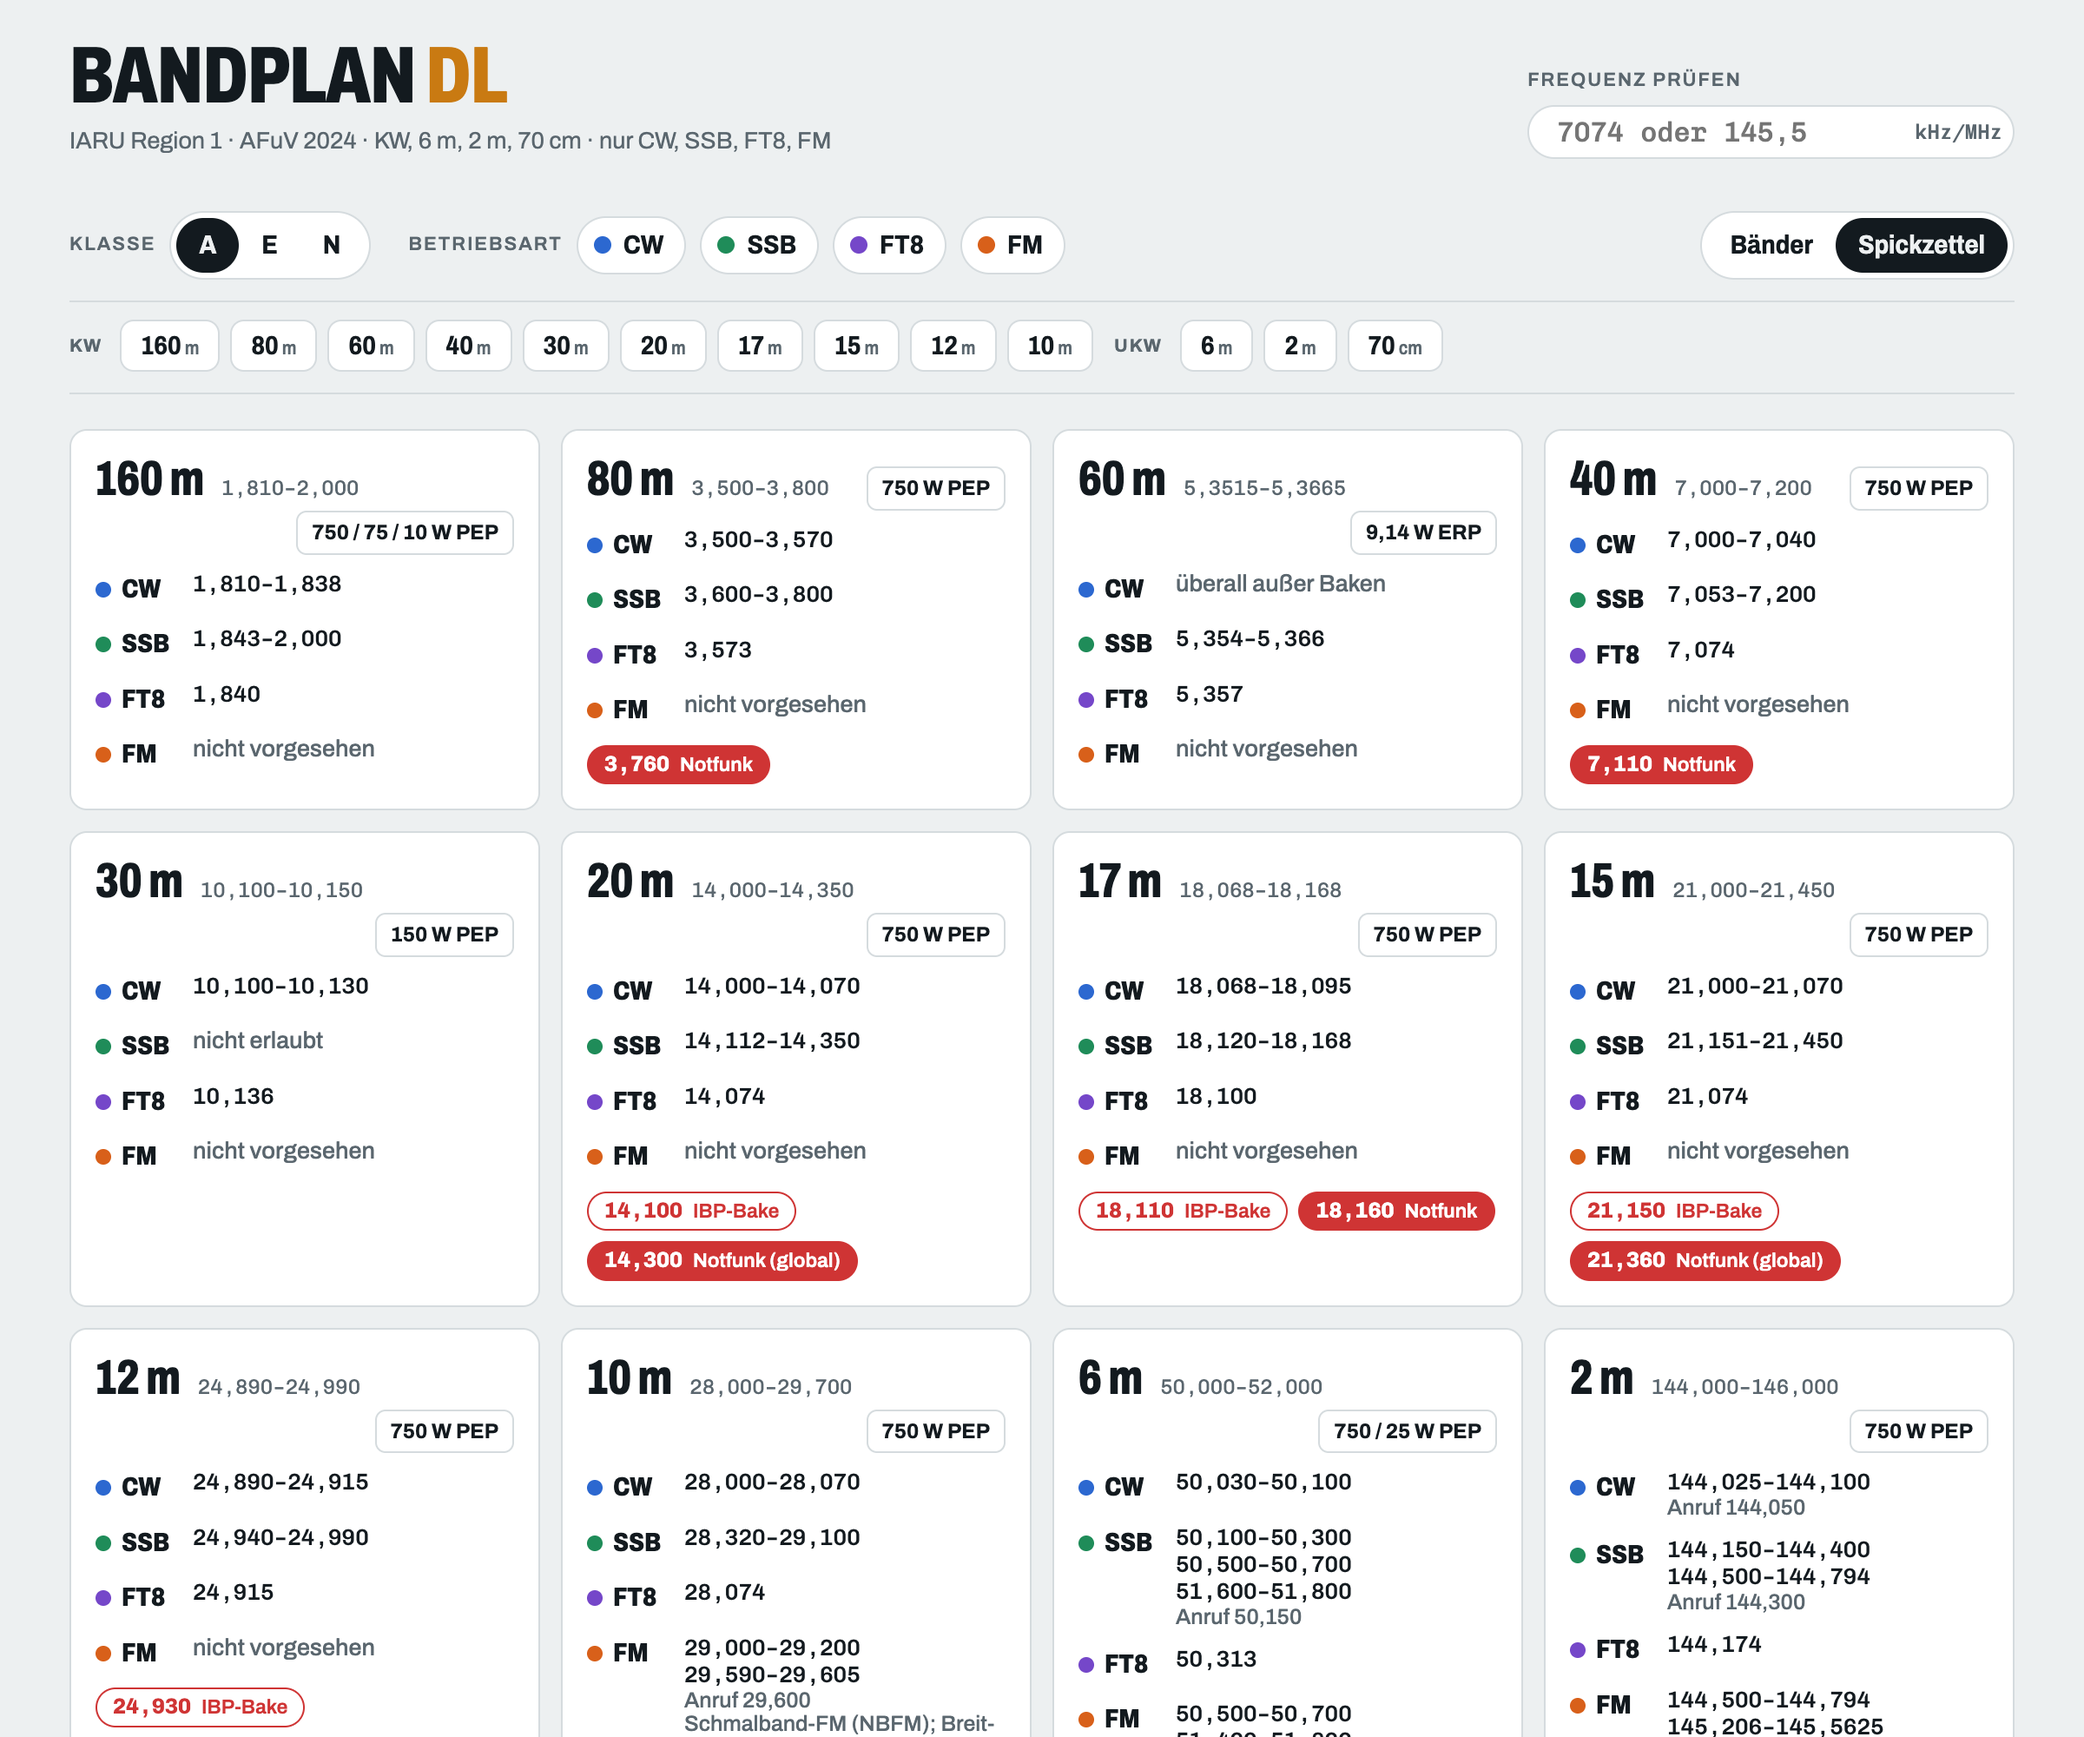
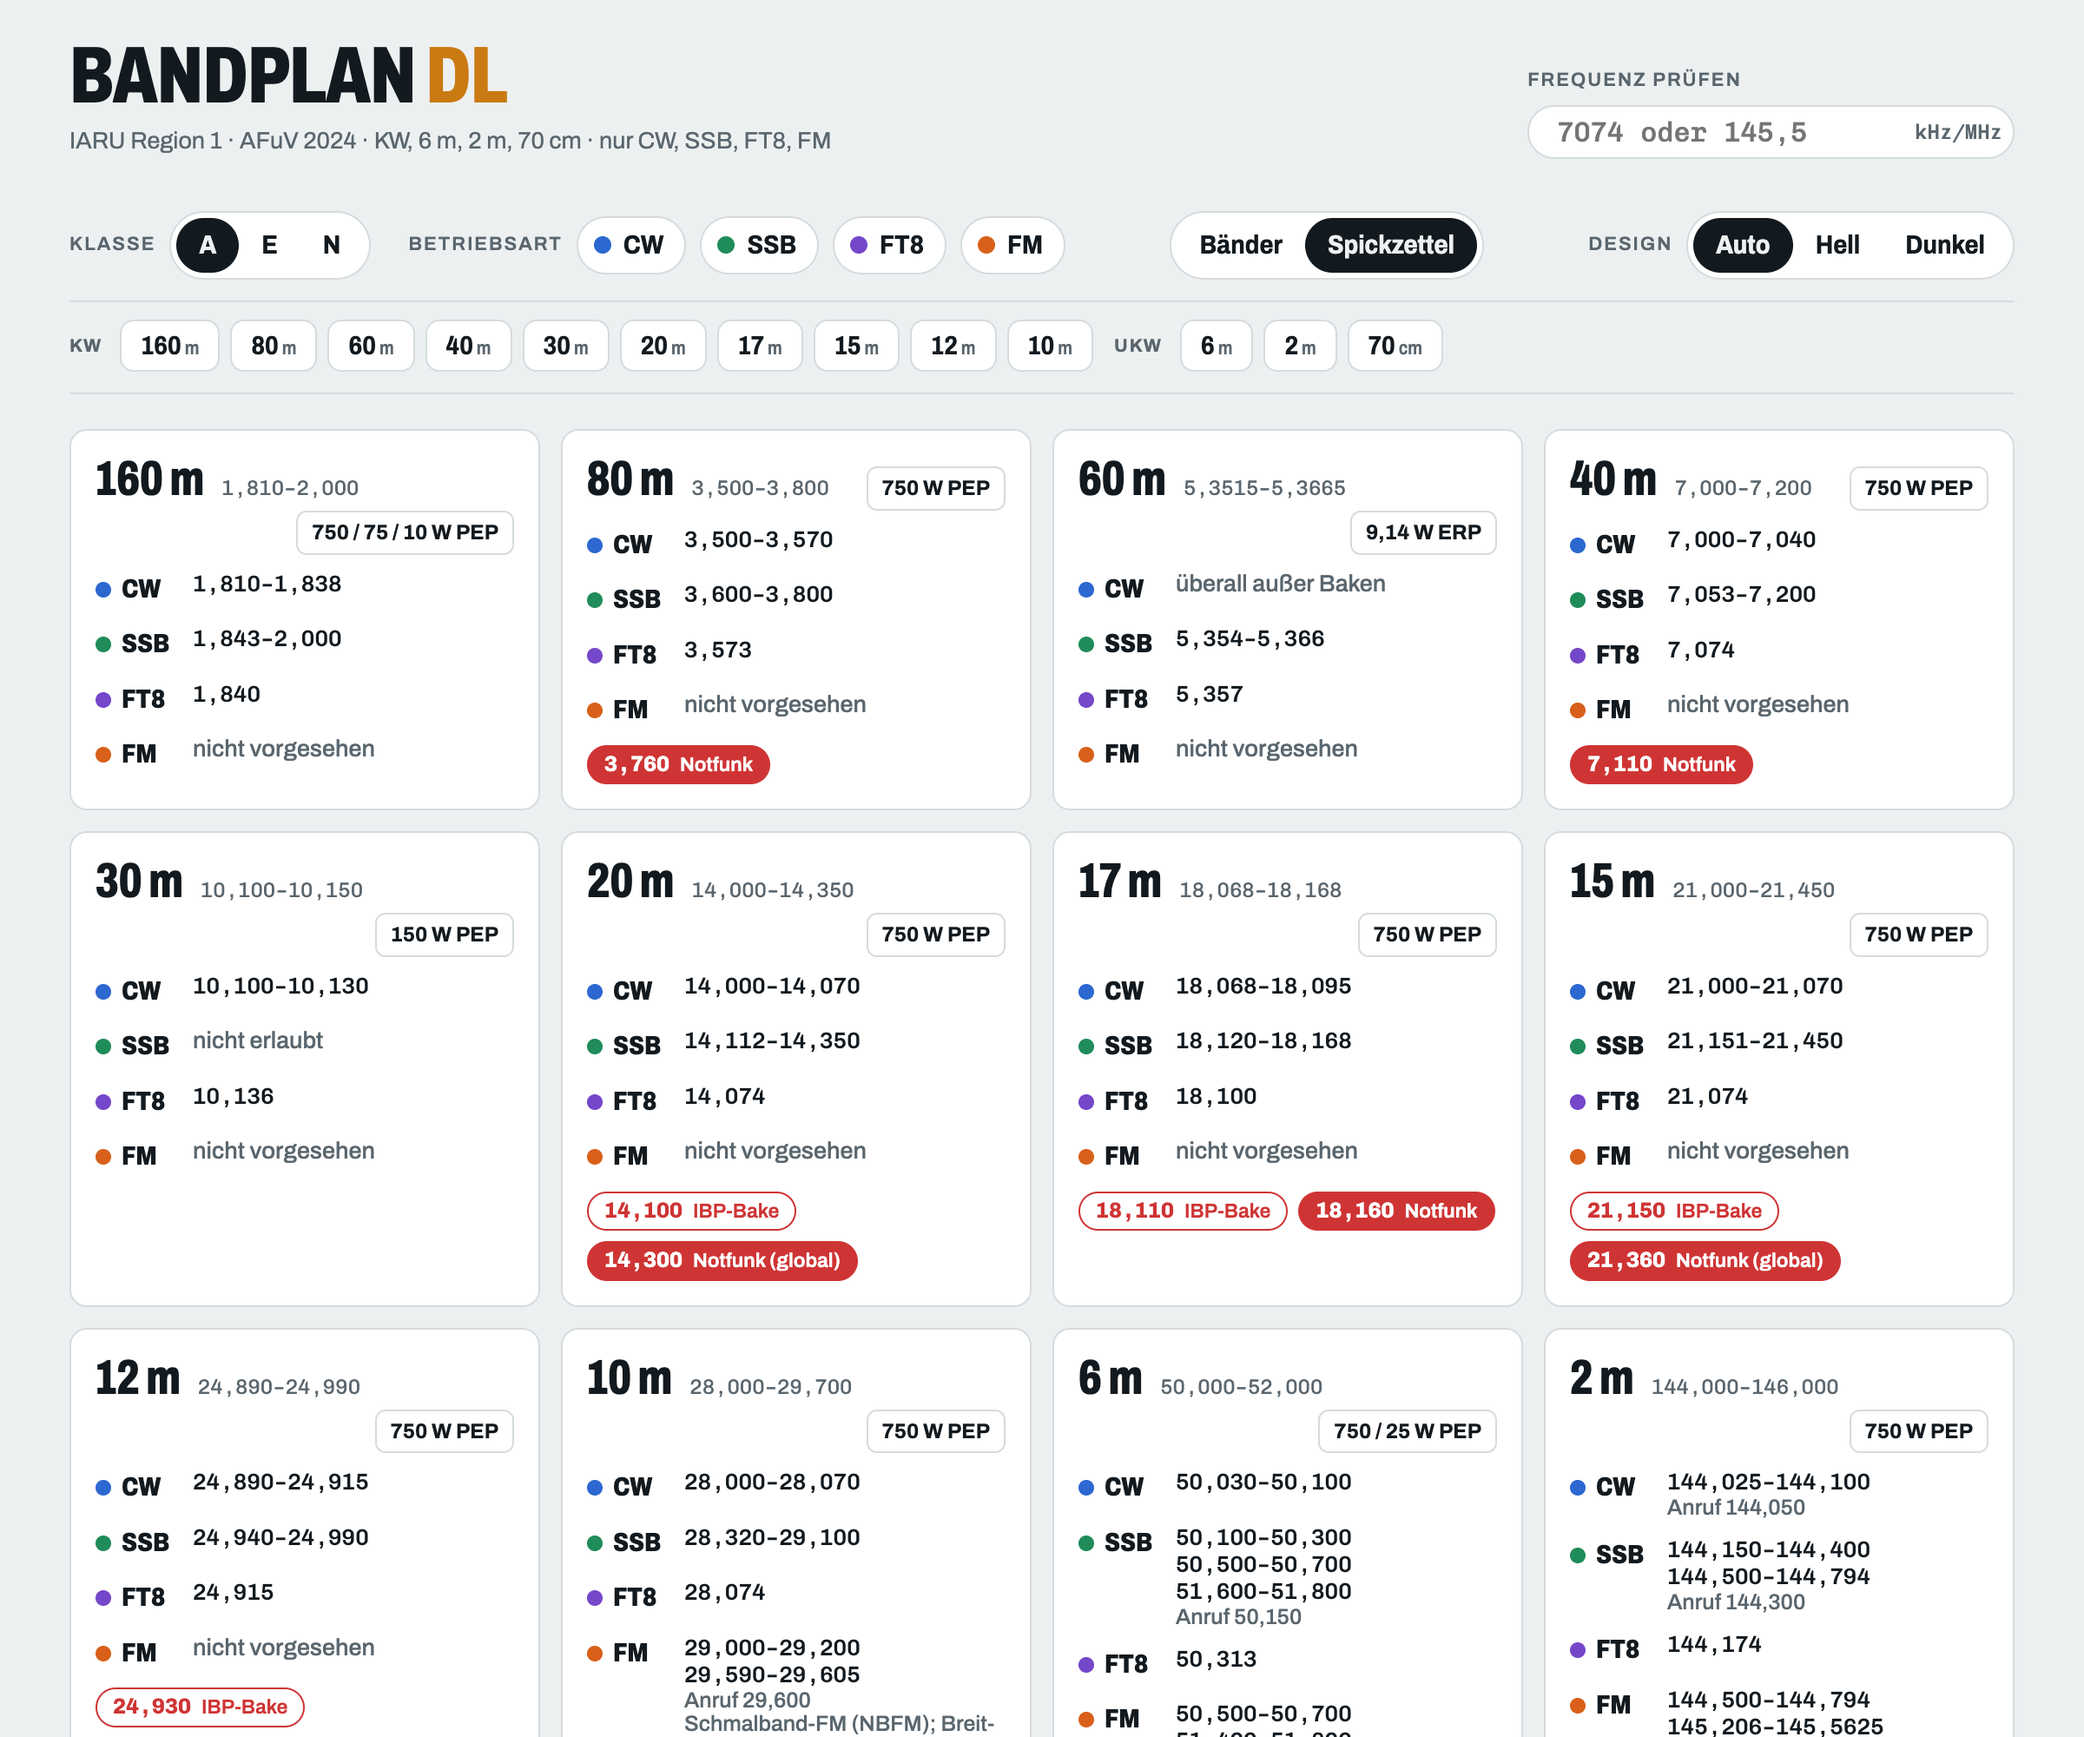
Datenschutz: alle localStorage-Werte nennen, Screenshots aktualisiert
- Impressum nennt jetzt alle lokal gespeicherten Einstellungen
  (Klasse, Betriebsarten, Band, Ansicht, Design)
- Screenshots mit Design-Umschalter; Mobilbild per 390-px-iframe,
  weil Headless Chrome eine Mindestfensterbreite hat und rechts abschnitt

Changed region(s): [[0.8125, 0.124, 0.9688, 0.155], [0.5625, 0.124, 0.7188, 0.155]]

diff --git a/impressum.html b/impressum.html
@@ -29,7 +29,7 @@
   <p>Alle Angaben ohne Gewähr. Der Bandplan ist eine <strong>Empfehlung</strong> der IARU; rechtlich verbindlich sind nur Frequenzbereiche, Leistungen und Bandbreiten der Amateurfunkverordnung (AFuV). Für Relais immer die aktuelle Relaisliste prüfen. Fehler bitte über den Kontakt oben melden.</p>
 
   <h2>Datenschutz</h2>
-  <p>Die Seite setzt <strong>keine Cookies</strong>, nutzt <strong>kein Tracking</strong>, keine Statistik und lädt <strong>keine Inhalte von Dritten</strong> nach (Schriften und Skripte kommen vom selben Server). Deine Auswahl (Lizenzklasse, Betriebsart) wird ausschließlich lokal in deinem Browser gespeichert (<span class="mono">localStorage</span>) und nicht übertragen.</p>
+  <p>Die Seite setzt <strong>keine Cookies</strong>, nutzt <strong>kein Tracking</strong>, keine Statistik und lädt <strong>keine Inhalte von Dritten</strong> nach (Schriften und Skripte kommen vom selben Server). Deine Einstellungen (Lizenzklasse, Betriebsarten, zuletzt gewähltes Band, Ansicht und Design) werden ausschließlich lokal in deinem Browser gespeichert (<span class="mono">localStorage</span>) und nicht übertragen.</p>
   <p>Beim Aufruf verarbeiten der Webserver und der vorgeschaltete Dienst Cloudflare (Cloudflare, Inc., Schutz und Auslieferung) technisch notwendige Verbindungsdaten: IP-Adresse, Zeitpunkt, abgerufene Datei und Browser-Kennung. Das dient dem sicheren Betrieb der Seite (Art. 6 Abs. 1 lit. f DSGVO). Eine Auswertung zu Werbe- oder Analysezwecken findet nicht statt.</p>
 </div>
 </body>
